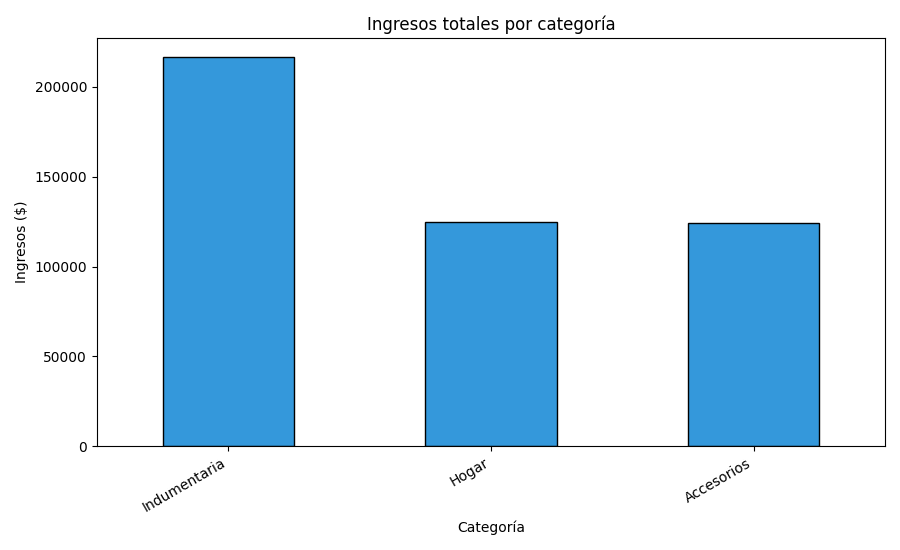
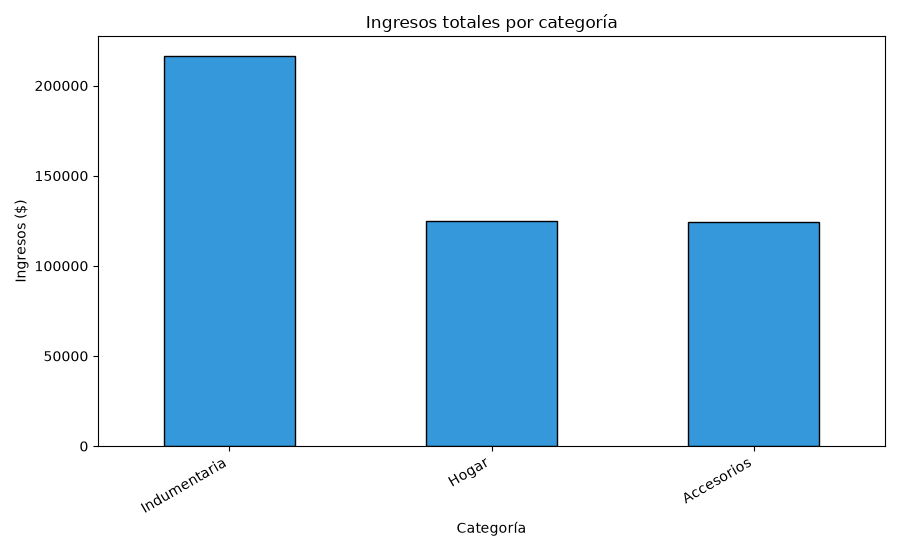
estefi: se agregan mejoras sustanciales en el codigo

diff --git a/Proyecto/funciones.py b/Proyecto/funciones.py
@@ -9,6 +9,7 @@ de gráficos. main.py importa este módulo y arma el flujo principal.
 import json
 import os
 import csv
+import math
 import pandas as pd
 import matplotlib.pyplot as plt
 
@@ -27,16 +28,63 @@ def cargar_ventas(ruta: str) -> list[dict]:
         return []
     try:
         with open(ruta, "r", encoding="utf-8") as f:
-            return json.load(f)
-    except (json.JSONDecodeError, OSError) as error:
+            ventas = json.load(f)
+        if not isinstance(ventas, list) or any(not _estructura_venta_valida(venta) for venta in ventas):
+            print(f"[!] El archivo '{ruta}' no contiene una lista válida de ventas. Se empieza con una lista vacía.")
+            return []
+        return ventas
+    except (json.JSONDecodeError, OSError, UnicodeDecodeError) as error:
         print(f"[!] No se pudo leer '{ruta}': {error}. Se empieza con una lista vacía.")
         return []
 
 
-def guardar_ventas(ventas: list[dict], ruta: str) -> None:
-    """Guarda la lista de ventas en un archivo JSON, con indentación legible."""
-    with open(ruta, "w", encoding="utf-8") as f:
-        json.dump(ventas, f, indent=4, ensure_ascii=False)
+def _estructura_venta_valida(venta: object) -> bool:
+    """Comprueba los campos y valores requeridos para una venta persistida."""
+    if not isinstance(venta, dict):
+        return False
+
+    if not all(campo in venta for campo in ("producto", "categoria", "precio", "cantidad", "total_venta")):
+        return False
+
+    producto = venta["producto"]
+    categoria = venta["categoria"]
+    precio = venta["precio"]
+    cantidad = venta["cantidad"]
+    total_venta = venta["total_venta"]
+
+    if not isinstance(producto, str) or not producto.strip():
+        return False
+    if not isinstance(categoria, str) or not categoria.strip():
+        return False
+    if isinstance(precio, bool) or not isinstance(precio, (int, float)):
+        return False
+    if isinstance(cantidad, bool) or not isinstance(cantidad, int):
+        return False
+    if isinstance(total_venta, bool) or not isinstance(total_venta, (int, float)):
+        return False
+
+    try:
+        return (
+            math.isfinite(precio)
+            and precio > 0
+            and cantidad > 0
+            and math.isfinite(total_venta)
+            and total_venta == round(precio * cantidad, 2)
+        )
+    except (OverflowError, TypeError):
+        return False
+
+
+def guardar_ventas(ventas: list[dict], ruta: str) -> bool:
+    """Guarda ventas en JSON con indentación legible y devuelve False si ocurre un error de escritura."""
+    try:
+        contenido = json.dumps(ventas, indent=4, ensure_ascii=False, allow_nan=False)
+        with open(ruta, "w", encoding="utf-8") as f:
+            f.write(contenido)
+        return True
+    except (OSError, TypeError, ValueError) as error:
+        print(f"[X] No se pudieron guardar las ventas en '{ruta}': {error}")
+        return False
 
 
 # ---------------------------------------------------------------------
@@ -60,16 +108,34 @@ def validar_venta(producto: str, categoria: str, precio_texto: str, cantidad_tex
         print("[X] Error: precio y cantidad deben ser valores numéricos.")
         return None
 
+    if not math.isfinite(precio):
+        print("[!] El precio debe ser un número finito.")
+        return None
+
     if precio <= 0 or cantidad <= 0:
         print("[!] El precio y la cantidad deben ser mayores a cero.")
+        return None
+
+    precio = round(precio, 2)
+    if precio <= 0:
+        print("[!] El precio debe ser de al menos $0.01 después del redondeo.")
+        return None
+
+    try:
+        total_venta = round(precio * cantidad, 2)
+    except OverflowError:
+        print("[!] El total de la venta excede el rango permitido.")
+        return None
+    if not math.isfinite(total_venta):
+        print("[!] El total de la venta debe ser un número finito.")
         return None
 
     return {
         "producto": producto.strip().title(),
         "categoria": categoria.strip().title(),
-        "precio": round(precio, 2),
+        "precio": precio,
         "cantidad": cantidad,
-        "total_venta": round(precio * cantidad, 2),
+        "total_venta": total_venta,
     }
 
 
@@ -113,17 +179,28 @@ def importar_desde_csv(ruta_csv: str) -> list[dict]:
 
     try:
         with open(ruta_csv, "r", encoding="utf-8", newline="") as f:
-            lector = csv.DictReader(f)
-            for fila in lector:
+            lector = csv.DictReader(f, restkey="_campos_extra")
+            campos_requeridos = {"producto", "categoria", "precio", "cantidad"}
+            if lector.fieldnames is None or not campos_requeridos.issubset(lector.fieldnames):
+                print(f"[X] El CSV debe incluir las columnas: {', '.join(sorted(campos_requeridos))}.")
+                return nuevas
+
+            for numero_fila, fila in enumerate(lector, start=2):
+                if fila.get("_campos_extra") is not None or any(
+                    fila.get(campo) is None for campo in campos_requeridos
+                ):
+                    print(f"[!] Se descarta la fila {numero_fila}: cantidad de columnas incorrecta.")
+                    continue
+
                 venta = validar_venta(
-                    fila.get("producto", ""),
-                    fila.get("categoria", ""),
-                    fila.get("precio", "0"),
-                    fila.get("cantidad", "0"),
+                    fila["producto"],
+                    fila["categoria"],
+                    fila["precio"],
+                    fila["cantidad"],
                 )
                 if venta is not None:
                     nuevas.append(venta)
-    except OSError as error:
+    except (OSError, UnicodeDecodeError, csv.Error) as error:
         print(f"[X] Error al leer el CSV: {error}")
 
     return nuevas
@@ -153,34 +230,52 @@ def eliminar_venta(ventas: list[dict], indice: int) -> list[dict]:
     Devuelve la lista actualizada. La validación del rango debe hacerse
     antes de llamar a esta función.
     """
-    venta_eliminada = ventas.pop(indice)
-    print(f"[OK] Venta de '{venta_eliminada['producto']}' eliminada correctamente.")
-    return ventas
+    ventas_actualizadas = ventas.copy()
+    ventas_actualizadas.pop(indice)
+    return ventas_actualizadas
 
 
 def modificar_venta(ventas: list[dict], indice: int,
-                    precio_texto: str, cantidad_texto: str) -> list[dict]:
+                    precio_texto: str, cantidad_texto: str) -> list[dict] | None:
     """Actualiza el precio y la cantidad de la venta en la posición indicada.
 
     Recalcula total_venta automáticamente. Devuelve la lista actualizada,
-    o la lista sin cambios si los nuevos datos son inválidos.
+    o None si los nuevos datos son inválidos.
     """
     try:
         precio: float = float(precio_texto)
         cantidad: int = int(cantidad_texto)
     except ValueError:
         print("[X] Error: precio y cantidad deben ser valores numéricos.")
-        return ventas
+        return None
+
+    if not math.isfinite(precio):
+        print("[!] El precio debe ser un número finito.")
+        return None
 
     if precio <= 0 or cantidad <= 0:
         print("[!] El precio y la cantidad deben ser mayores a cero.")
-        return ventas
+        return None
 
-    ventas[indice]["precio"] = round(precio, 2)
-    ventas[indice]["cantidad"] = cantidad
-    ventas[indice]["total_venta"] = round(precio * cantidad, 2)
-    print(f"[OK] Venta de '{ventas[indice]['producto']}' actualizada correctamente.")
-    return ventas
+    precio = round(precio, 2)
+    if precio <= 0:
+        print("[!] El precio debe ser de al menos $0.01 después del redondeo.")
+        return None
+
+    try:
+        total_venta = round(precio * cantidad, 2)
+    except OverflowError:
+        print("[!] El total de la venta excede el rango permitido.")
+        return None
+    if not math.isfinite(total_venta):
+        print("[!] El total de la venta debe ser un número finito.")
+        return None
+
+    ventas_actualizadas = [venta.copy() for venta in ventas]
+    ventas_actualizadas[indice]["precio"] = precio
+    ventas_actualizadas[indice]["cantidad"] = cantidad
+    ventas_actualizadas[indice]["total_venta"] = total_venta
+    return ventas_actualizadas
 
 
 # ---------------------------------------------------------------------

diff --git a/Proyecto/main.py b/Proyecto/main.py
@@ -45,9 +45,10 @@ def registrar_venta(ventas: list[dict]) -> list[dict]:
 
     venta = validar_venta(producto, categoria, precio, cantidad)
     if venta is not None:
-        ventas = agregar_venta(ventas, venta)
-        guardar_ventas(ventas, RUTA_DATOS)
-        print("[OK] Venta registrada y guardada.")
+        ventas_actualizadas = agregar_venta(ventas.copy(), venta)
+        if guardar_ventas(ventas_actualizadas, RUTA_DATOS):
+            ventas = ventas_actualizadas
+            print("[OK] Venta registrada y guardada.")
     return ventas
 
 
@@ -100,8 +101,12 @@ def gestionar_ventas(ventas: list[dict]) -> list[dict]:
     if sub_opcion == "2":
         confirmacion = input(f"¿Seguro que querés eliminar '{ventas[indice]['producto']}'? (s/n): ")
         if confirmacion.strip().lower() == "s":
-            ventas = eliminar_venta(ventas, indice)
-            guardar_ventas(ventas, RUTA_DATOS)
+            ventas_actualizadas = eliminar_venta(ventas, indice)
+            if guardar_ventas(ventas_actualizadas, RUTA_DATOS):
+                print(f"[OK] Venta de '{ventas[indice]['producto']}' eliminada correctamente.")
+                ventas = ventas_actualizadas
+            else:
+                print("[!] No se eliminó la venta porque no se pudo guardar el archivo.")
         else:
             print("[!] Eliminación cancelada.")
     else:
@@ -110,8 +115,13 @@ def gestionar_ventas(ventas: list[dict]) -> list[dict]:
               f"Cantidad: {ventas[indice]['cantidad']}")
         nuevo_precio = input("Nuevo precio unitario: ")
         nueva_cantidad = input("Nueva cantidad vendida: ")
-        ventas = modificar_venta(ventas, indice, nuevo_precio, nueva_cantidad)
-        guardar_ventas(ventas, RUTA_DATOS)
+        ventas_actualizadas = modificar_venta(ventas, indice, nuevo_precio, nueva_cantidad)
+        if ventas_actualizadas is not None:
+            if guardar_ventas(ventas_actualizadas, RUTA_DATOS):
+                print(f"[OK] Venta de '{ventas[indice]['producto']}' actualizada correctamente.")
+                ventas = ventas_actualizadas
+            else:
+                print("[!] No se modificó la venta porque no se pudo guardar el archivo.")
 
     return ventas
 
@@ -120,9 +130,10 @@ def importar_csv(ventas: list[dict]) -> list[dict]:
     ruta_csv = input("Ruta del archivo CSV a importar (ej: ventas_nuevas.csv): ").strip()
     nuevas = importar_desde_csv(ruta_csv)
     if nuevas:
-        ventas.extend(nuevas)
-        guardar_ventas(ventas, RUTA_DATOS)
-        print(f"[OK] Se importaron {len(nuevas)} ventas nuevas desde '{ruta_csv}'.")
+        ventas_actualizadas = ventas + nuevas
+        if guardar_ventas(ventas_actualizadas, RUTA_DATOS):
+            ventas = ventas_actualizadas
+            print(f"[OK] Se importaron {len(nuevas)} ventas nuevas desde '{ruta_csv}'.")
     else:
         print("[!] No se importó ninguna venta válida.")
     return ventas

diff --git a/README.md b/README.md
@@ -24,6 +24,8 @@ archivo CSV externo y generar un gráfico con la distribución de ingresos por c
 
 ## Instalación
 
+Ubicarse dentro de la carpeta Proyecto y correr los siguientes comandos:
+
 **Windows:**
 ```
 py -3.13 -m venv .venv
@@ -36,6 +38,62 @@ pip install -r requirements.txt
 python3 -m venv .venv
 source .venv/bin/activate
 pip install -r requirements.txt
+```
+
+## Posibles errores en la instalación
+
+### Versión de Python incompatible
+
+El proyecto requiere **Python 3.10 o superior**. Puedes verificar tu versión actual con:
+
+```bash
+python3 --version
+```
+
+Si tienes una versión anterior (por ejemplo, Python 3.9), recomendamos instalar una versión más reciente utilizando `uv`:
+
+```bash
+curl -LsSf https://astral.sh/uv/install.sh | sh
+source ~/.zshrc
+
+uv python install 3.12
+```
+
+Luego, desde la raíz del proyecto, crea nuevamente el entorno virtual utilizando Python 3.12:
+
+```bash
+rm -rf .venv
+uv venv --python 3.12 .venv
+source .venv/bin/activate
+```
+
+Verifica que se esté utilizando la versión correcta:
+
+```bash
+python --version
+```
+
+El resultado debe indicar **Python 3.10 o superior**.
+
+### `pip: command not found`
+
+Si al instalar las dependencias aparece:
+
+```text
+command not found: pip
+```
+
+instala `pip` dentro del entorno virtual:
+
+```bash
+python -m ensurepip --upgrade
+python -m pip install --upgrade pip
+```
+
+Finalmente, instala las dependencias del proyecto:
+
+```bash
+python -m pip install -r requirements.txt
 ```
 
 ## Ejecución
